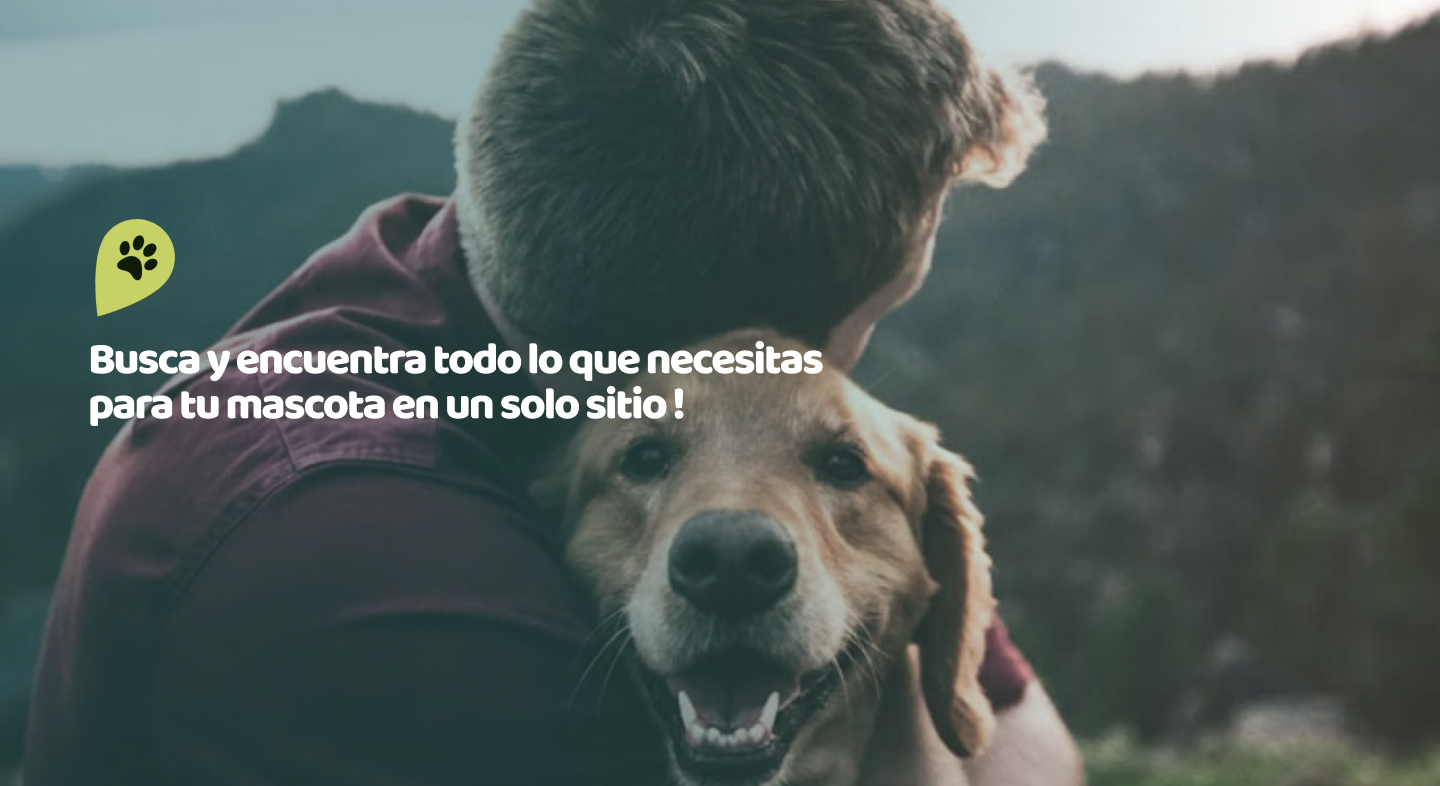
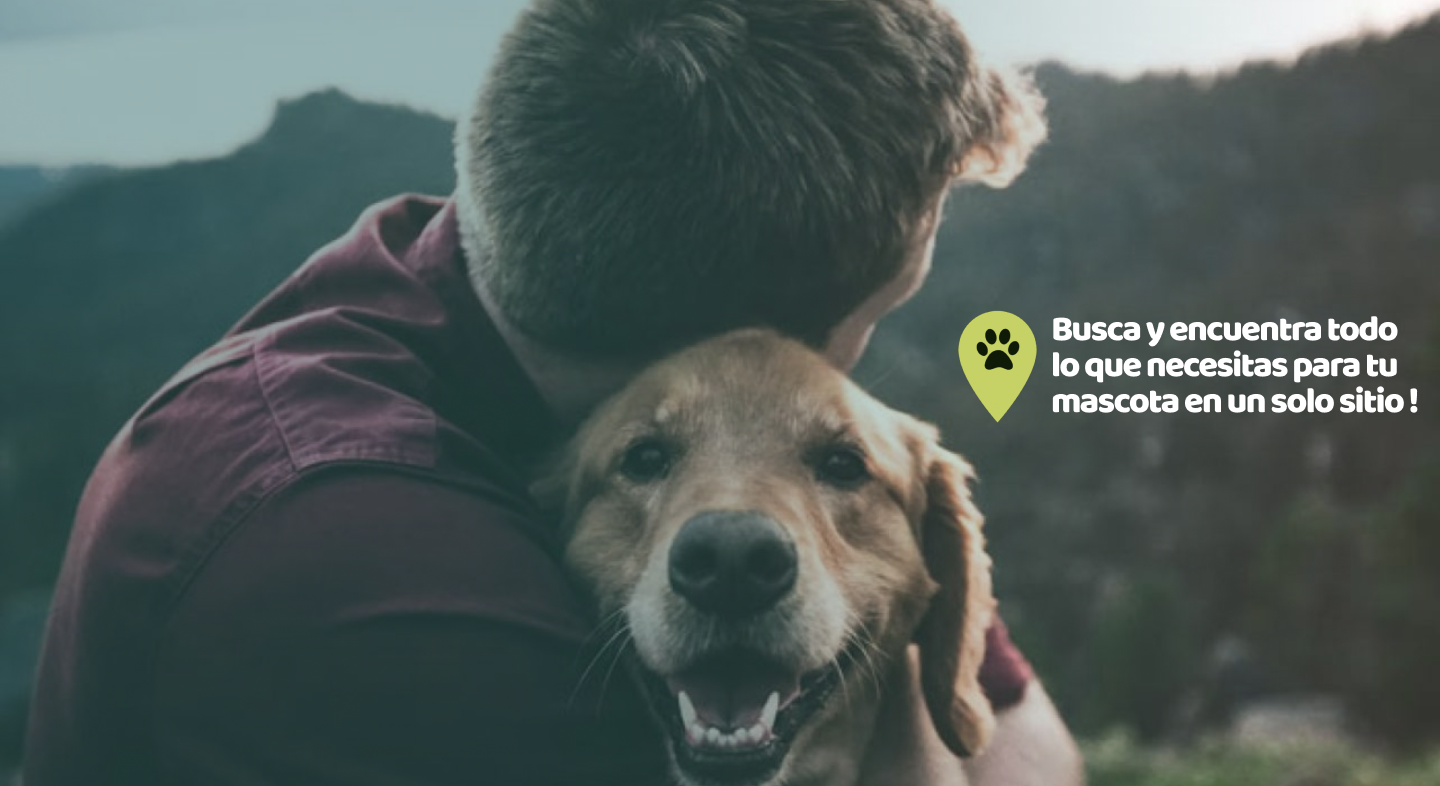
se modifica home.jsp e imagenes utilizadas en home

Changed region(s): [[0.0625, 0.4275, 0.5938, 0.5496], [0.6562, 0.3969, 1.0, 0.5496], [0.0625, 0.2748, 0.125, 0.3969]]

diff --git a/src/main/resources/static/assets/CSS/stylesHome.css b/src/main/resources/static/assets/CSS/stylesHome.css
@@ -75,11 +75,6 @@ color: #48C6AF;
     --bs-btn-active-color: #C6D166;
     --bs-btn-active-bg:#004445 ;
     --bs-btn-active-border-color: #C6D166;
-	margin-top: 390px;
-	margin-left: 100px;
-	margin-bottom: 270px;
-	font-weight: bold;
-	font-size: 24px;
 	
 }
 
